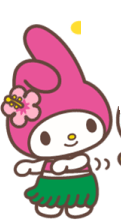
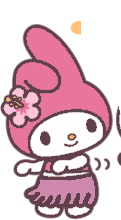
统一爱心入场角色为粉红奶白配色并保留完整苹果

diff --git a/entrance-art/README.md b/entrance-art/README.md
@@ -1,6 +1,6 @@
 # 入场动画贴纸
 
-当前入场使用三丽鸥官方经典蓝背带裤和红裙小熊两款 Kitty 原版配色。经典款裁去旁边的苹果、牛奶；小熊款清除海报背景与文字，输出透明背景小图。
+当前入场使用三丽鸥官方经典蓝背带裤和红裙小熊两款 Kitty 原版配色。经典款完整保留旁边的苹果，仅裁去牛奶；小熊款清除海报背景与文字，输出透明背景小图。
 
 来源：https://www.sanrio.co.jp/characters/hellokitty/
 
@@ -21,3 +21,5 @@
 夏日贴纸原始编号：859011369、859011370、859011380、859011385、859011386、859011393、859011394、859011392。图片保存为透明小图，动画不进行网络外链加载。
 
 夏日素材中的晒黑肤色已调整为暖白色，保留服装、配件和描边；当前动画按网格均匀分布。
+
+当前本地预览进一步统一为粉红、奶白、柔和杏色与可可色描边；保留角色细节，爱心轮廓采用分离间距以避免遮挡。原配色图片备份未随站点发布。
